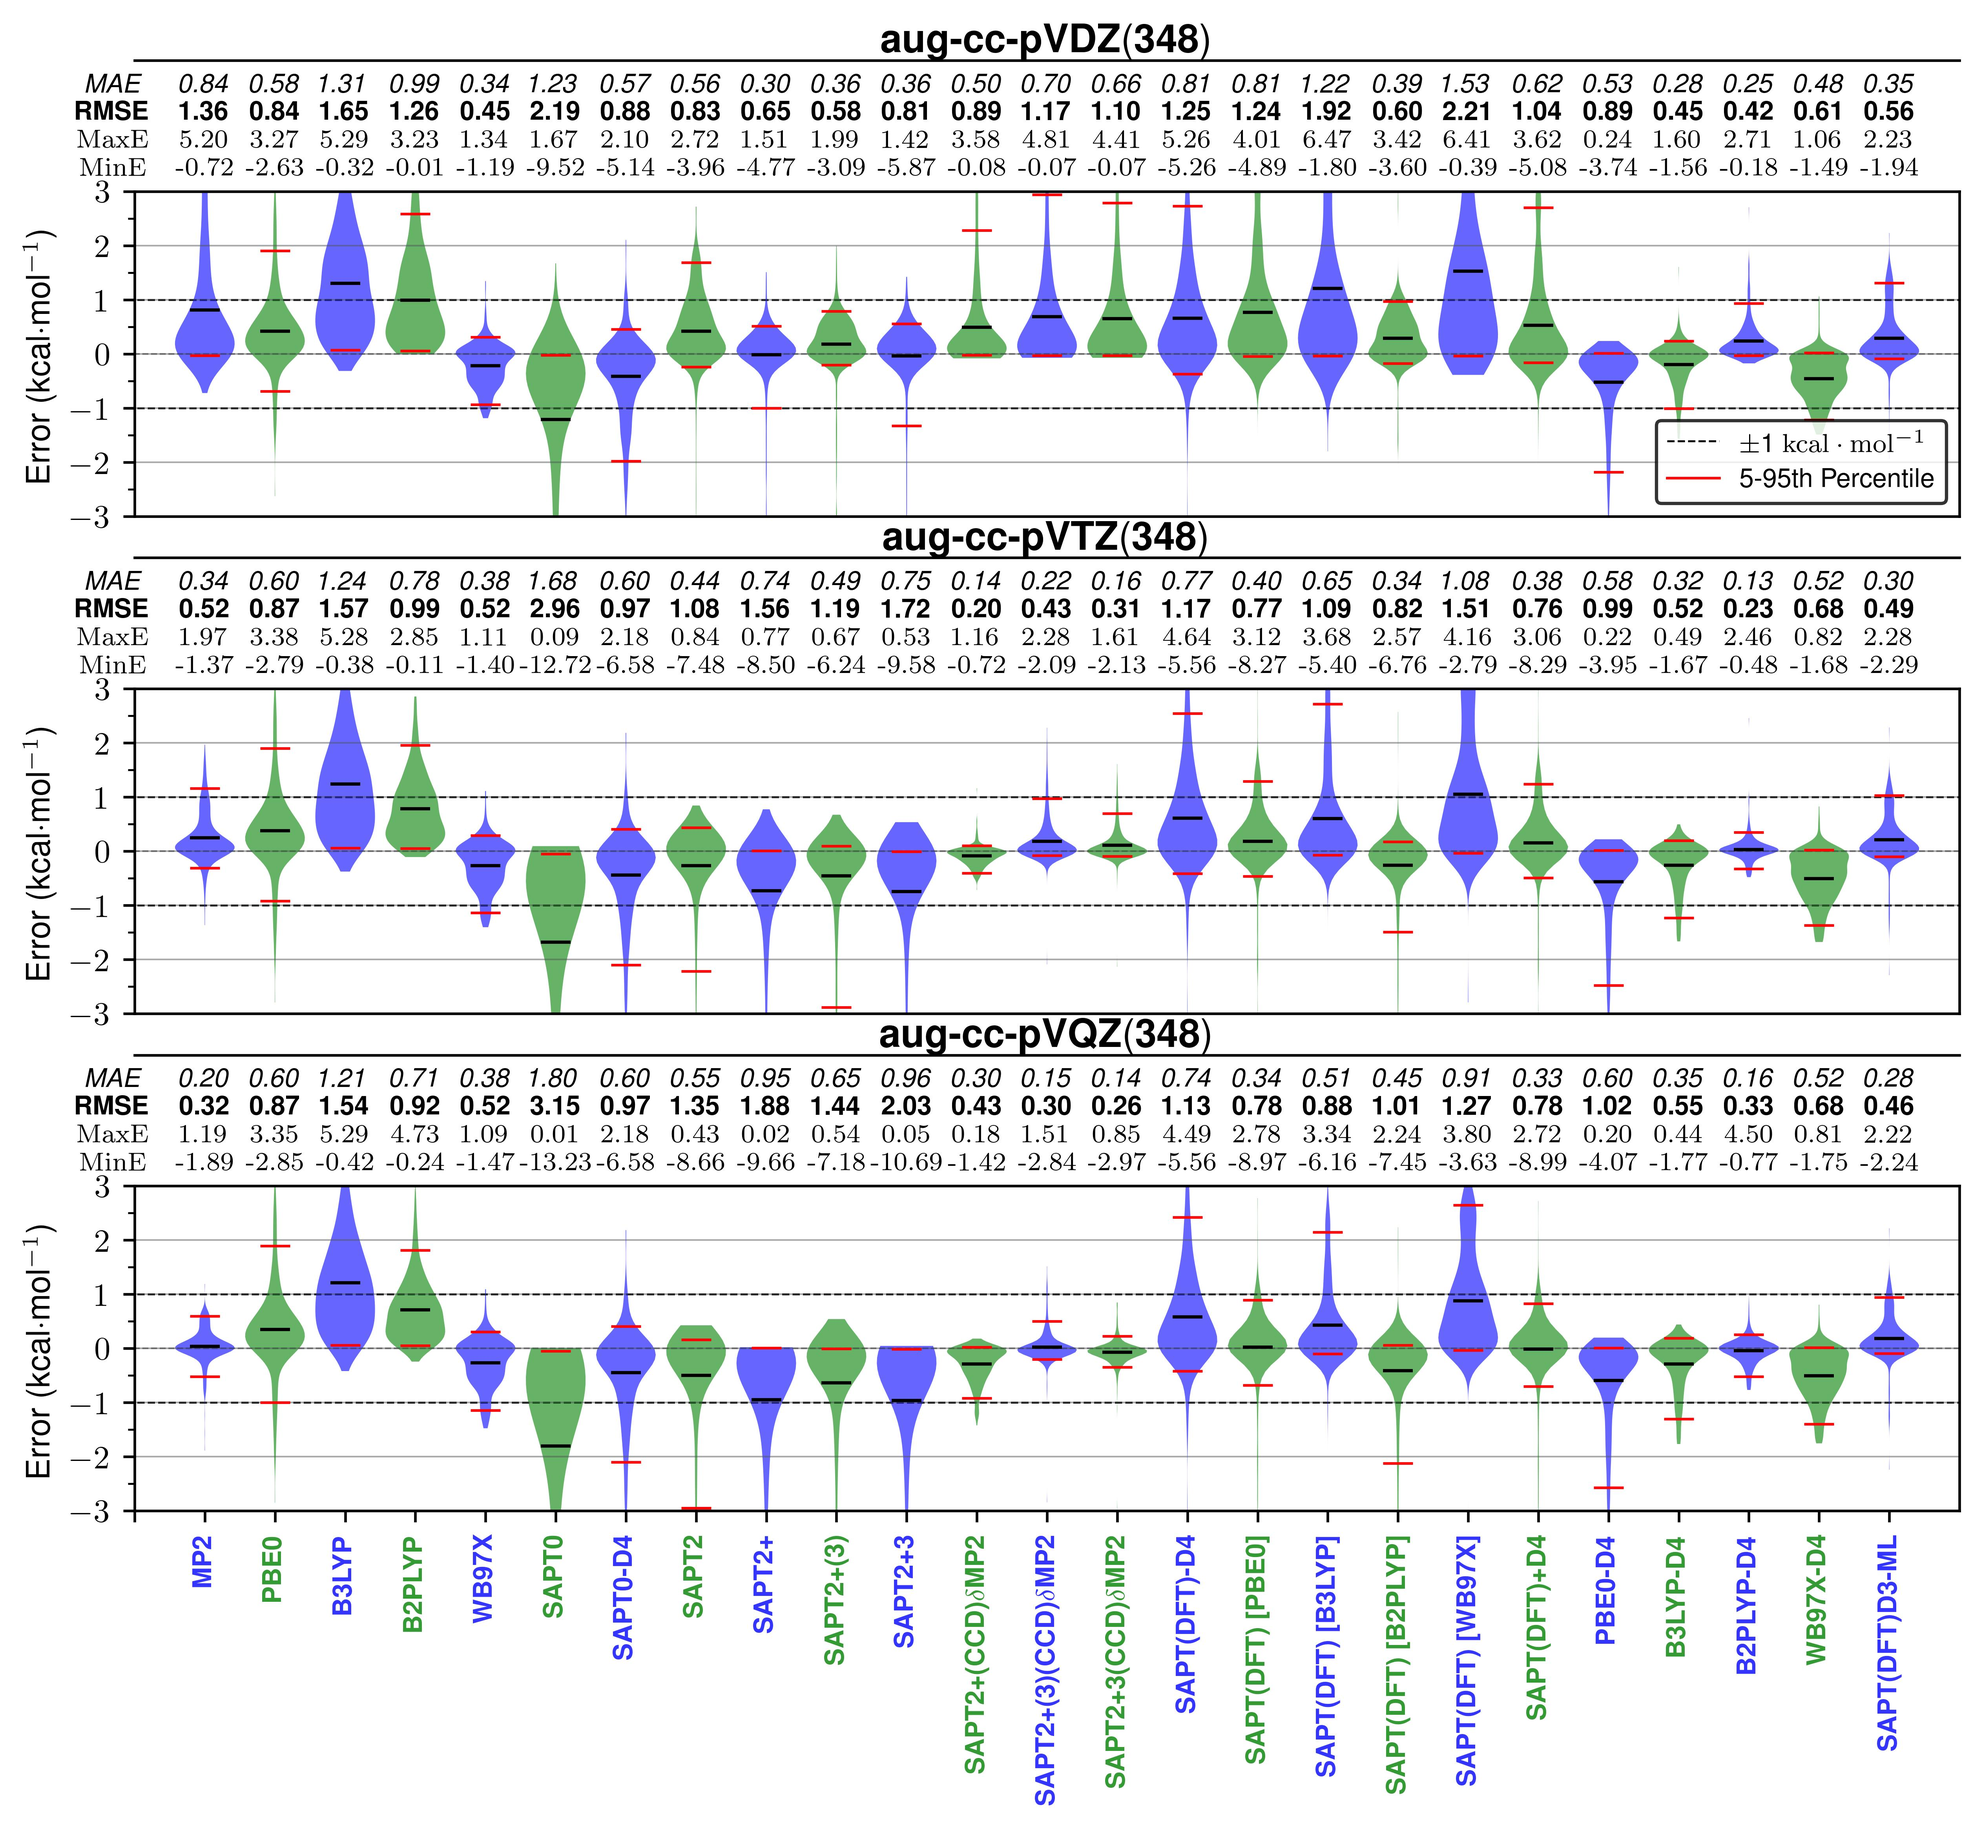
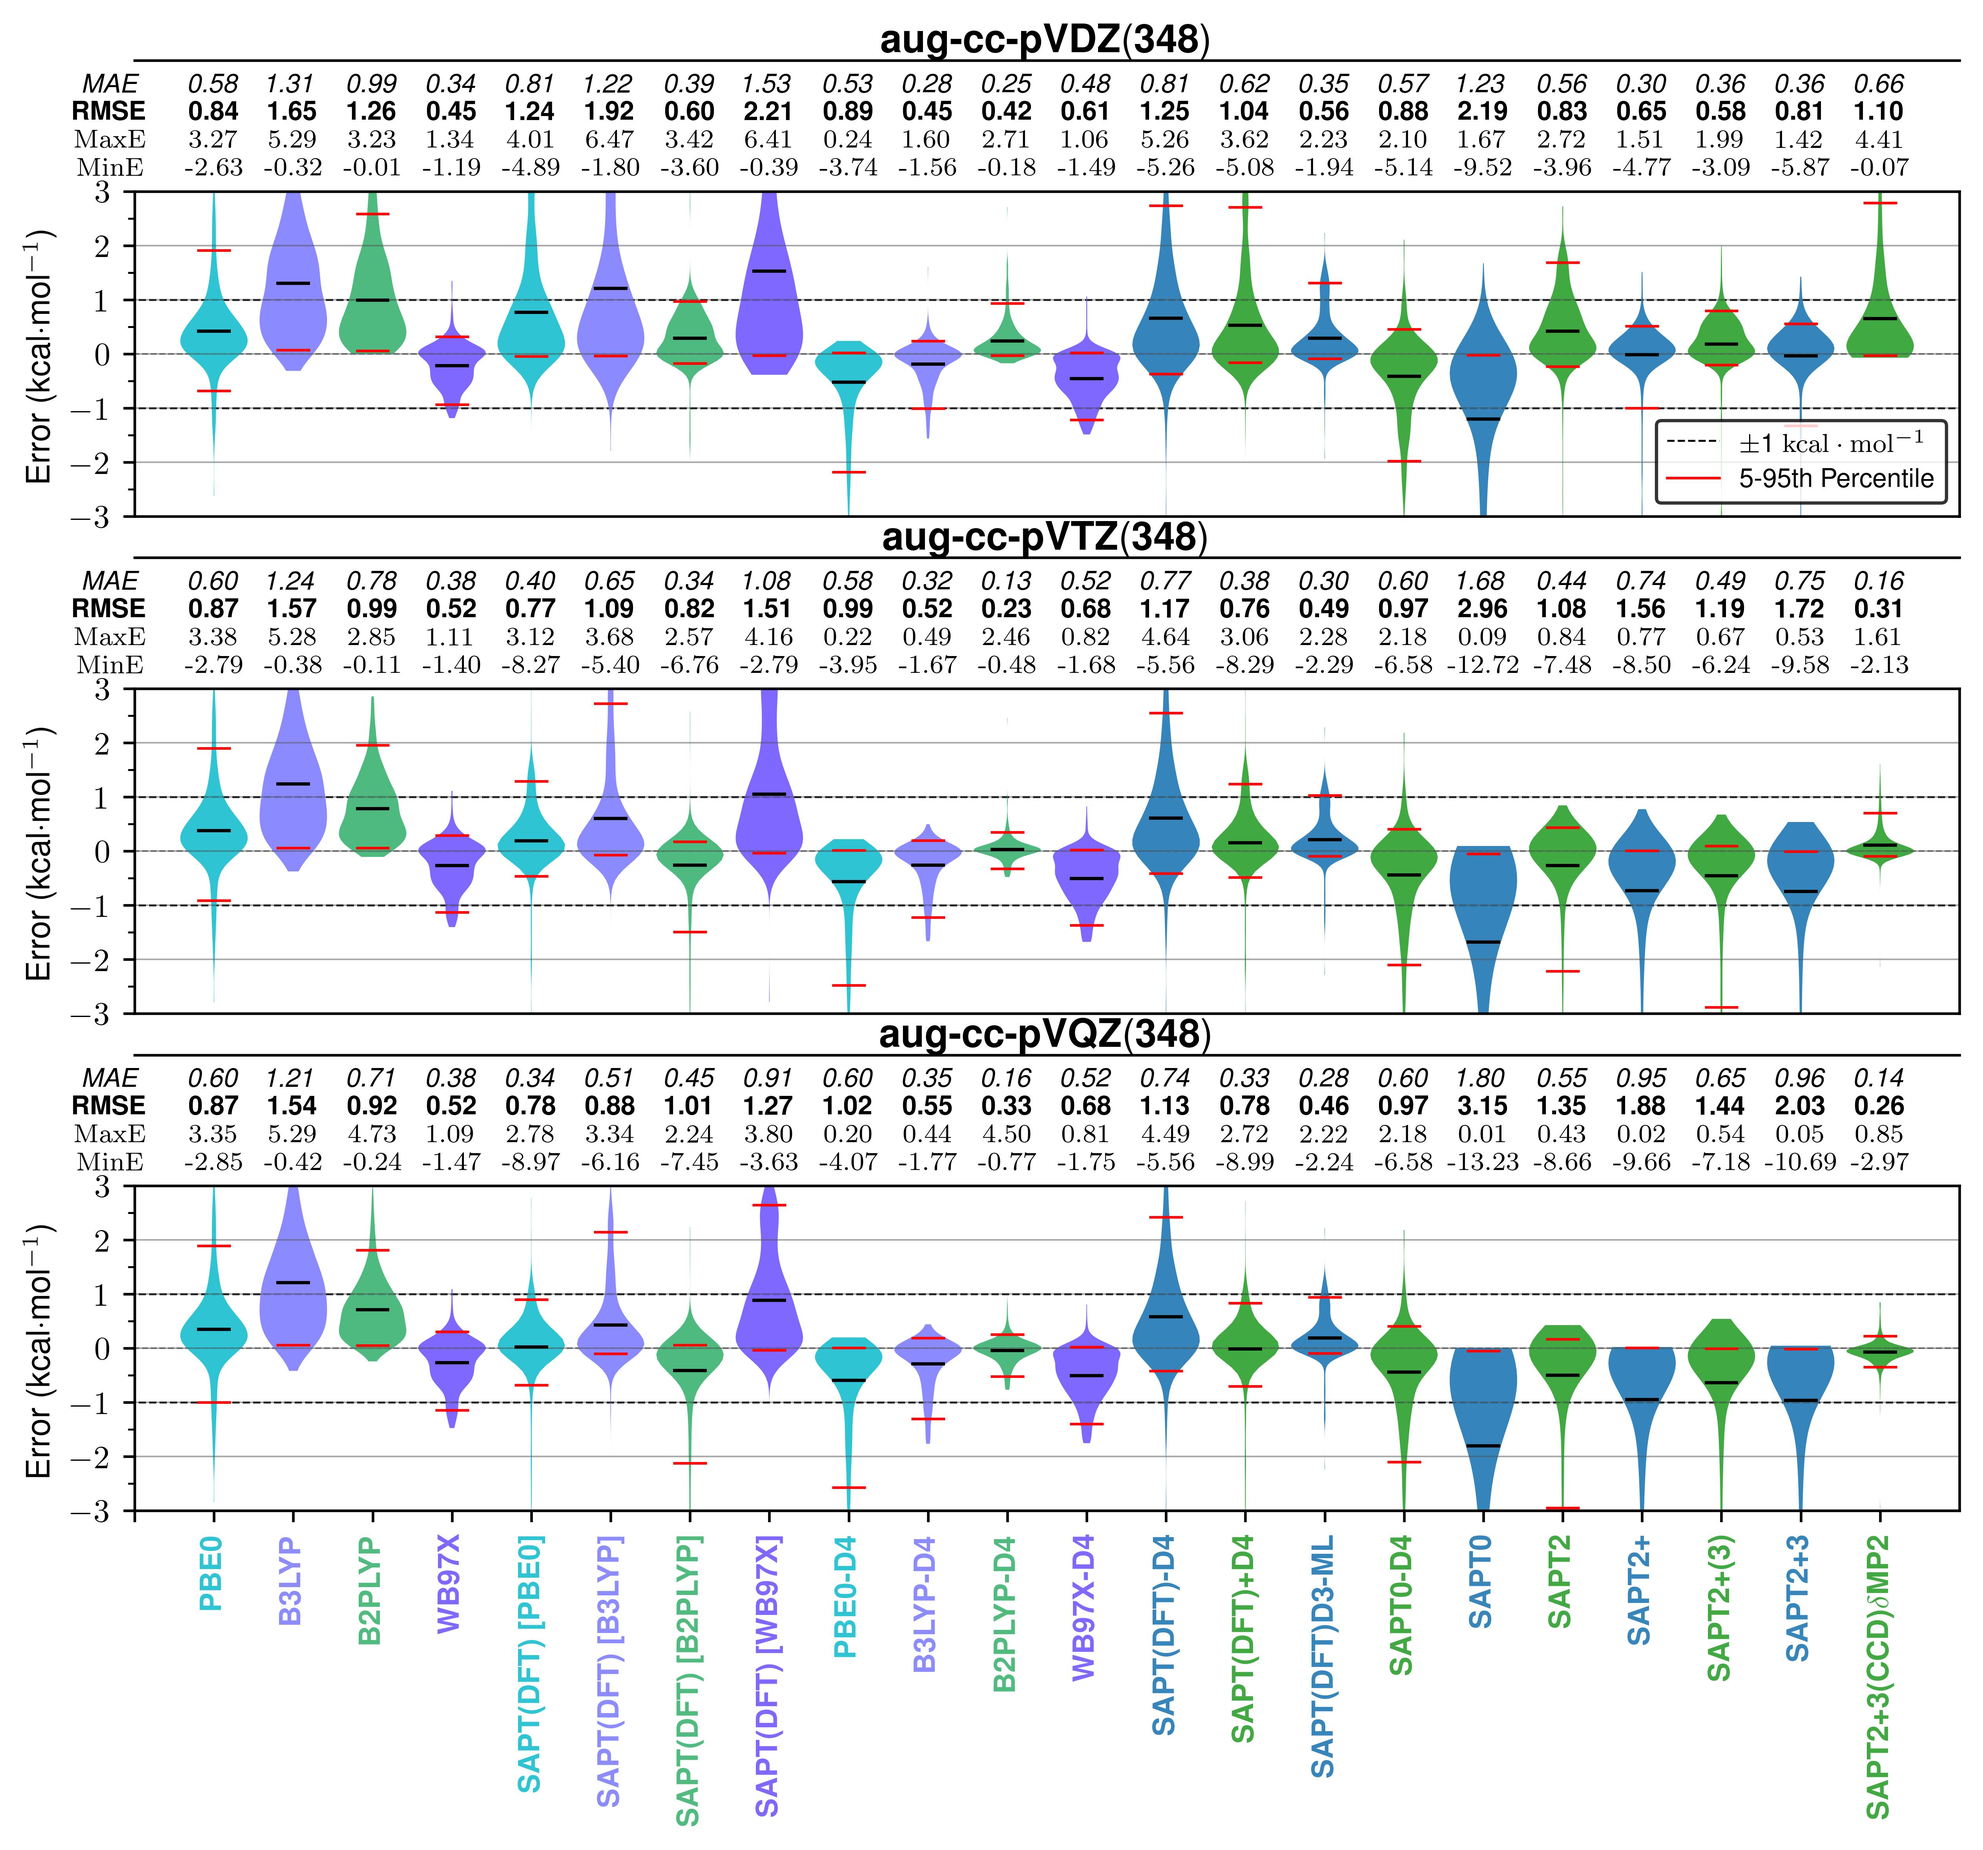
colors for functionals

diff --git a/src/plotting.py b/src/plotting.py
@@ -4174,41 +4174,86 @@ def violin_plots_multi(df, limit_to_column_not_nan=None):
         {"df": df_adz, "label": "aug-cc-pVDZ", "ylim": [-3, 3]},
         {"df": df_atz, "label": "aug-cc-pVTZ", "ylim": [-3, 3]},
     ]
+    # Color all of the same functional the same.
     df_labels_and_columns = {
         # "SAPT2+3(CCD)DMP2": "SAPT2+3(CCD)DMP2 TOTAL ENERGY Error",
-        "MP2": "MP2 IE Error",
+        # DFT
         "PBE0": "PBE0 IE Error",
         "B3LYP": "B3LYP IE Error",
         "B2PLYP": "B2PLYP IE Error",
         "WB97X": "WB97X IE Error",
-        "SAPT0": "SAPT0 TOTAL ENERGY Error",
+        # SAPT(DFT)
+        "SAPT(DFT) [PBE0]": "SAPT(DFT) [PBE0] TOTAL ENERGY Error",
+        "SAPT(DFT) [B3LYP]": "SAPT(DFT) [B3LYP] TOTAL ENERGY Error",
+        "SAPT(DFT) [B2PLYP]": "SAPT(DFT) [B2PLYP] TOTAL ENERGY Error",
+        "SAPT(DFT) [WB97X]": "SAPT(DFT) [WB97X] TOTAL ENERGY Error",
+        # DFT-D4
+        "PBE0-D4": "PBE0-D4 TOTAL ENERGY Error",
+        "B3LYP-D4": "B3LYP-D4 TOTAL ENERGY Error",
+        "B2PLYP-D4": "B2PLYP-D4 TOTAL ENERGY Error",
+        "WB97X-D4": "WB97X-D4 TOTAL ENERGY Error",
+        # SAPT(DFT) D's
+        "SAPT(DFT)-D4": "SAPT(DFT)-D4 TOTAL ENERGY Error",
+        "SAPT(DFT)+D4": "SAPT(DFT)+D4 TOTAL ENERGY Error",
+        "SAPT(DFT)D3-ML": "SAPT(DFT)D3-ML TOTAL ENERGY Error",
+        # Wavefunction
         "SAPT0-D4": "SAPT0-D4 TOTAL ENERGY Error",
-        # "SSAPT0": "SSAPT0 TOTAL ENERGY Error",
+        "SAPT0": "SAPT0 TOTAL ENERGY Error",
         "SAPT2": "SAPT2 TOTAL ENERGY Error",
         "SAPT2+": "SAPT2+ TOTAL ENERGY Error",
         "SAPT2+(3)": "SAPT2+(3) TOTAL ENERGY Error",
         "SAPT2+3": "SAPT2+3 TOTAL ENERGY Error",
+        "SAPT2+3(CCD)DMP2": "SAPT2+3(CCD)DMP2 TOTAL ENERGY Error",
+        # "SAPT2+(CCD)DMP2": "SAPT2+(CCD)DMP2 TOTAL ENERGY Error",
+        # "SAPT2+(3)(CCD)DMP2": "SAPT2+(3)(CCD)DMP2 TOTAL ENERGY Error",
+        # "MP2": "MP2 IE Error",
+        # "SSAPT0": "SSAPT0 TOTAL ENERGY Error",
         # "SAPT2+(CCD)": "SAPT2+(CCD) TOTAL ENERGY Error",
         # "SAPT2+(3)(CCD)": "SAPT2+(3)(CCD) TOTAL ENERGY Error",
         # "SAPT2+3(CCD)": "SAPT2+3(CCD) TOTAL ENERGY Error",
         # "SAPT2+DMP2": "SAPT2+DMP2 TOTAL ENERGY Error",
         # "SAPT2+(3)DMP2": "SAPT2+(3)DMP2 TOTAL ENERGY Error",
         # "SAPT2+3DMP2": "SAPT2+3DMP2 TOTAL ENERGY Error",
-        "SAPT2+(CCD)DMP2": "SAPT2+(CCD)DMP2 TOTAL ENERGY Error",
-        "SAPT2+(3)(CCD)DMP2": "SAPT2+(3)(CCD)DMP2 TOTAL ENERGY Error",
-        "SAPT2+3(CCD)DMP2": "SAPT2+3(CCD)DMP2 TOTAL ENERGY Error",
-        "SAPT(DFT)-D4": "SAPT(DFT)-D4 TOTAL ENERGY Error",
-        "SAPT(DFT) [PBE0]": "SAPT(DFT) [PBE0] TOTAL ENERGY Error",
-        "SAPT(DFT) [B3LYP]": "SAPT(DFT) [B3LYP] TOTAL ENERGY Error",
-        "SAPT(DFT) [B2PLYP]": "SAPT(DFT) [B2PLYP] TOTAL ENERGY Error",
-        "SAPT(DFT) [WB97X]": "SAPT(DFT) [WB97X] TOTAL ENERGY Error",
-        "SAPT(DFT)+D4": "SAPT(DFT)+D4 TOTAL ENERGY Error",
-        "PBE0-D4": "PBE0-D4 TOTAL ENERGY Error",
-        "B3LYP-D4": "B3LYP-D4 TOTAL ENERGY Error",
-        "B2PLYP-D4": "B2PLYP-D4 TOTAL ENERGY Error",
-        "WB97X-D4": "WB97X-D4 TOTAL ENERGY Error",
-        "SAPT(DFT)D3-ML": "SAPT(DFT)D3-ML TOTAL ENERGY Error",
     }
+    # four colors that are contrast between purple blue green and yellow
+    # I need a less bright yellow and different shades of blue and green
+    BLUE = '#1F77B4'  # BLUE
+    TEAL = '#17BECF'  # TEAL
+    LIGHT_BLUE = '#7F7FFF'  # LIGHT BLUE
+    GREEN = '#2CA02C'  # GREEN
+    LIME_GREEN = '#8CA83C'  # LIME GREEN
+    Aquamarine = '#7FFFD4'  # Aquamarine
+    Slate_Blue = '#6A5ACD'  # Slate Blue
+    Medium_Sea_Green = '#3CB371'  # Medium Sea Green
+    INDIGO = '#7057FF'   # INDIGO
+    colors = [
+        TEAL,
+        LIGHT_BLUE,
+        Medium_Sea_Green,
+        INDIGO,
+
+        TEAL,
+        LIGHT_BLUE,
+        Medium_Sea_Green,
+        INDIGO,
+
+        TEAL,
+        LIGHT_BLUE,
+        Medium_Sea_Green,
+        INDIGO,
+
+        BLUE,
+        GREEN,
+        BLUE,
+
+        GREEN,
+        BLUE,
+        GREEN,
+        BLUE,
+        GREEN,
+        BLUE,
+        GREEN,
+    ]
     mcure_labels = {}
     for k, v in df_labels_and_columns.items():
         mcure_labels[k] = []
@@ -4230,6 +4275,9 @@ def violin_plots_multi(df, limit_to_column_not_nan=None):
         usetex=True,
         legend_loc="lower right",
         figure_size=(10, 8),
+        colors=colors,
+        violin_alpha=0.9,
+        x_label_fontsize=9,
         # mcure=mcure_labels,
         error_labels_position=(-0.3, 0.25),
         grid_widths=[1.0],
@@ -4415,39 +4463,81 @@ def violin_plots_multi_subset(df, limit_to_column_not_nan=None):
     ]
     df_labels_and_columns = {
         # "SAPT2+3(CCD)DMP2": "SAPT2+3(CCD)DMP2 TOTAL ENERGY Error",
-        "MP2": "MP2 IE Error",
+        # DFT
         "PBE0": "PBE0 IE Error",
         "B3LYP": "B3LYP IE Error",
         "B2PLYP": "B2PLYP IE Error",
         "WB97X": "WB97X IE Error",
-        "SAPT0": "SAPT0 TOTAL ENERGY Error",
+        # SAPT(DFT)
+        "SAPT(DFT) [PBE0]": "SAPT(DFT) [PBE0] TOTAL ENERGY Error",
+        "SAPT(DFT) [B3LYP]": "SAPT(DFT) [B3LYP] TOTAL ENERGY Error",
+        "SAPT(DFT) [B2PLYP]": "SAPT(DFT) [B2PLYP] TOTAL ENERGY Error",
+        "SAPT(DFT) [WB97X]": "SAPT(DFT) [WB97X] TOTAL ENERGY Error",
+        # DFT-D4
+        "PBE0-D4": "PBE0-D4 TOTAL ENERGY Error",
+        "B3LYP-D4": "B3LYP-D4 TOTAL ENERGY Error",
+        "B2PLYP-D4": "B2PLYP-D4 TOTAL ENERGY Error",
+        "WB97X-D4": "WB97X-D4 TOTAL ENERGY Error",
+        # SAPT(DFT) D's
+        "SAPT(DFT)-D4": "SAPT(DFT)-D4 TOTAL ENERGY Error",
+        "SAPT(DFT)+D4": "SAPT(DFT)+D4 TOTAL ENERGY Error",
+        "SAPT(DFT)D3-ML": "SAPT(DFT)D3-ML TOTAL ENERGY Error",
+        # Wavefunction
         "SAPT0-D4": "SAPT0-D4 TOTAL ENERGY Error",
-        # "SSAPT0": "SSAPT0 TOTAL ENERGY Error",
+        "SAPT0": "SAPT0 TOTAL ENERGY Error",
         "SAPT2": "SAPT2 TOTAL ENERGY Error",
         "SAPT2+": "SAPT2+ TOTAL ENERGY Error",
         "SAPT2+(3)": "SAPT2+(3) TOTAL ENERGY Error",
         "SAPT2+3": "SAPT2+3 TOTAL ENERGY Error",
+        "SAPT2+3(CCD)DMP2": "SAPT2+3(CCD)DMP2 TOTAL ENERGY Error",
+        # "SAPT2+(CCD)DMP2": "SAPT2+(CCD)DMP2 TOTAL ENERGY Error",
+        # "SAPT2+(3)(CCD)DMP2": "SAPT2+(3)(CCD)DMP2 TOTAL ENERGY Error",
+        # "MP2": "MP2 IE Error",
+        # "SSAPT0": "SSAPT0 TOTAL ENERGY Error",
         # "SAPT2+(CCD)": "SAPT2+(CCD) TOTAL ENERGY Error",
         # "SAPT2+(3)(CCD)": "SAPT2+(3)(CCD) TOTAL ENERGY Error",
         # "SAPT2+3(CCD)": "SAPT2+3(CCD) TOTAL ENERGY Error",
         # "SAPT2+DMP2": "SAPT2+DMP2 TOTAL ENERGY Error",
         # "SAPT2+(3)DMP2": "SAPT2+(3)DMP2 TOTAL ENERGY Error",
         # "SAPT2+3DMP2": "SAPT2+3DMP2 TOTAL ENERGY Error",
-        "SAPT2+(CCD)DMP2": "SAPT2+(CCD)DMP2 TOTAL ENERGY Error",
-        "SAPT2+(3)(CCD)DMP2": "SAPT2+(3)(CCD)DMP2 TOTAL ENERGY Error",
-        "SAPT2+3(CCD)DMP2": "SAPT2+3(CCD)DMP2 TOTAL ENERGY Error",
-        "SAPT(DFT)-D4": "SAPT(DFT)-D4 TOTAL ENERGY Error",
-        "SAPT(DFT) [PBE0]": "SAPT(DFT) [PBE0] TOTAL ENERGY Error",
-        "SAPT(DFT) [B3LYP]": "SAPT(DFT) [B3LYP] TOTAL ENERGY Error",
-        "SAPT(DFT) [B2PLYP]": "SAPT(DFT) [B2PLYP] TOTAL ENERGY Error",
-        "SAPT(DFT) [WB97X]": "SAPT(DFT) [WB97X] TOTAL ENERGY Error",
-        "SAPT(DFT)+D4": "SAPT(DFT)+D4 TOTAL ENERGY Error",
-        "PBE0-D4": "PBE0-D4 TOTAL ENERGY Error",
-        "B3LYP-D4": "B3LYP-D4 TOTAL ENERGY Error",
-        "B2PLYP-D4": "B2PLYP-D4 TOTAL ENERGY Error",
-        "WB97X-D4": "WB97X-D4 TOTAL ENERGY Error",
-        "SAPT(DFT)D3-ML": "SAPT(DFT)D3-ML TOTAL ENERGY Error",
     }
+    BLUE = '#1F77B4'  # BLUE
+    TEAL = '#17BECF'  # TEAL
+    LIGHT_BLUE = '#7F7FFF'  # LIGHT BLUE
+    GREEN = '#2CA02C'  # GREEN
+    LIME_GREEN = '#8CA83C'  # LIME GREEN
+    Aquamarine = '#7FFFD4'  # Aquamarine
+    Slate_Blue = '#6A5ACD'  # Slate Blue
+    Medium_Sea_Green = '#3CB371'  # Medium Sea Green
+    INDIGO = '#7057FF'   # INDIGO
+    colors = [
+        TEAL,
+        LIGHT_BLUE,
+        Medium_Sea_Green,
+        INDIGO,
+
+        TEAL,
+        LIGHT_BLUE,
+        Medium_Sea_Green,
+        INDIGO,
+
+        TEAL,
+        LIGHT_BLUE,
+        Medium_Sea_Green,
+        INDIGO,
+
+        BLUE,
+        GREEN,
+        BLUE,
+
+        GREEN,
+        BLUE,
+        GREEN,
+        BLUE,
+        GREEN,
+        BLUE,
+        GREEN,
+    ]
     mcure_labels = {}
     for k, v in df_labels_and_columns.items():
         mcure_labels[k] = []
@@ -4469,6 +4559,9 @@ def violin_plots_multi_subset(df, limit_to_column_not_nan=None):
         usetex=True,
         legend_loc="lower right",
         figure_size=(10, 8),
+        colors=colors,
+        violin_alpha=0.9,
+        x_label_fontsize=9,
         # mcure=mcure_labels,
         error_labels_position=(-0.3, 0.25),
         grid_heights=[
@@ -6161,11 +6254,12 @@ def plot_LoS_saptdft(df):
     for c in conv:
         df[c] /= h2kcalmol
     # print(df[["SAPT_DFT_D4_pbe0_adz_total", "PBE0 IE adz"]])
+    violin_plots_multi(df)
+    violin_plots_multi_subset(df)
+    return
     violin_plots_multi_components(df, limit_to_column_not_nan="D3-ML")
     violin_plots_multi_components_subset(df, limit_to_column_not_nan="D3-ML")
     return
-    violin_plots_multi(df)
-    violin_plots_multi_subset(df)
     return
     # Need to plot subset with aqz data now...
     return
